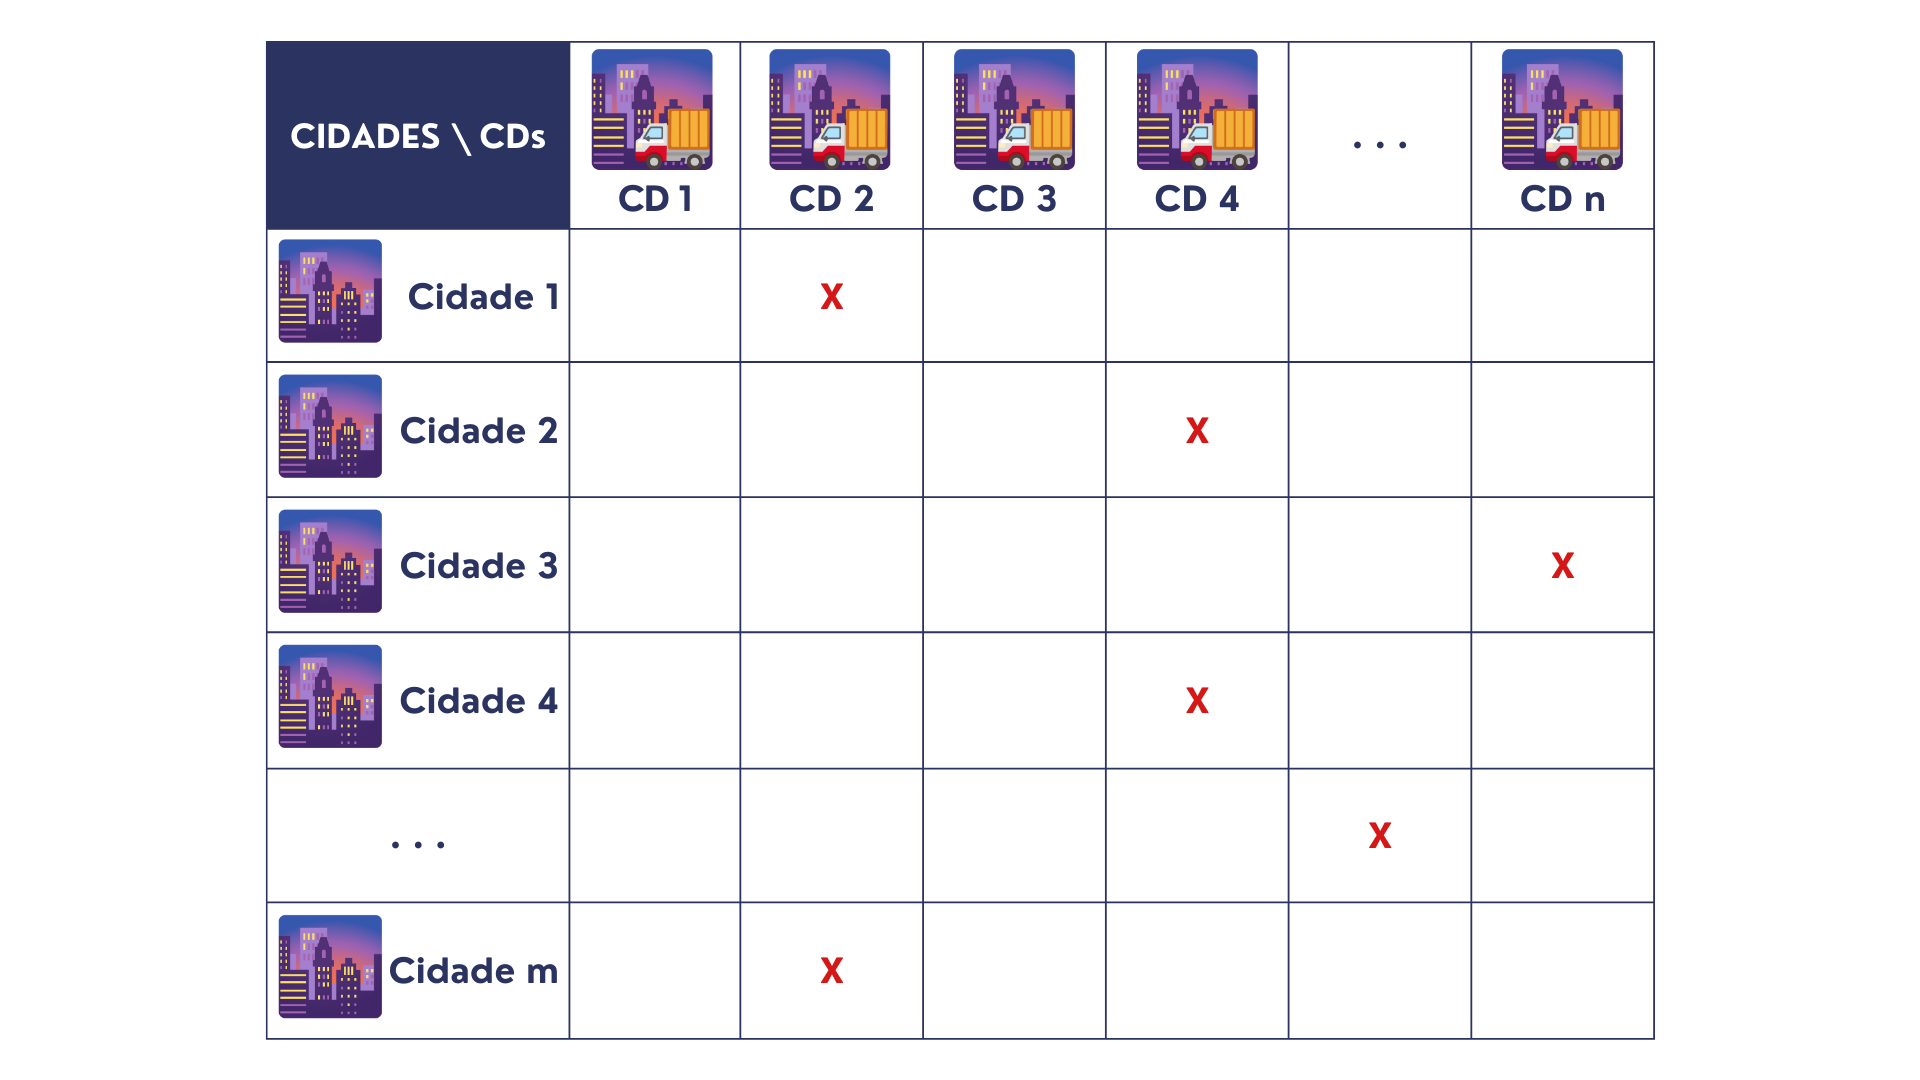
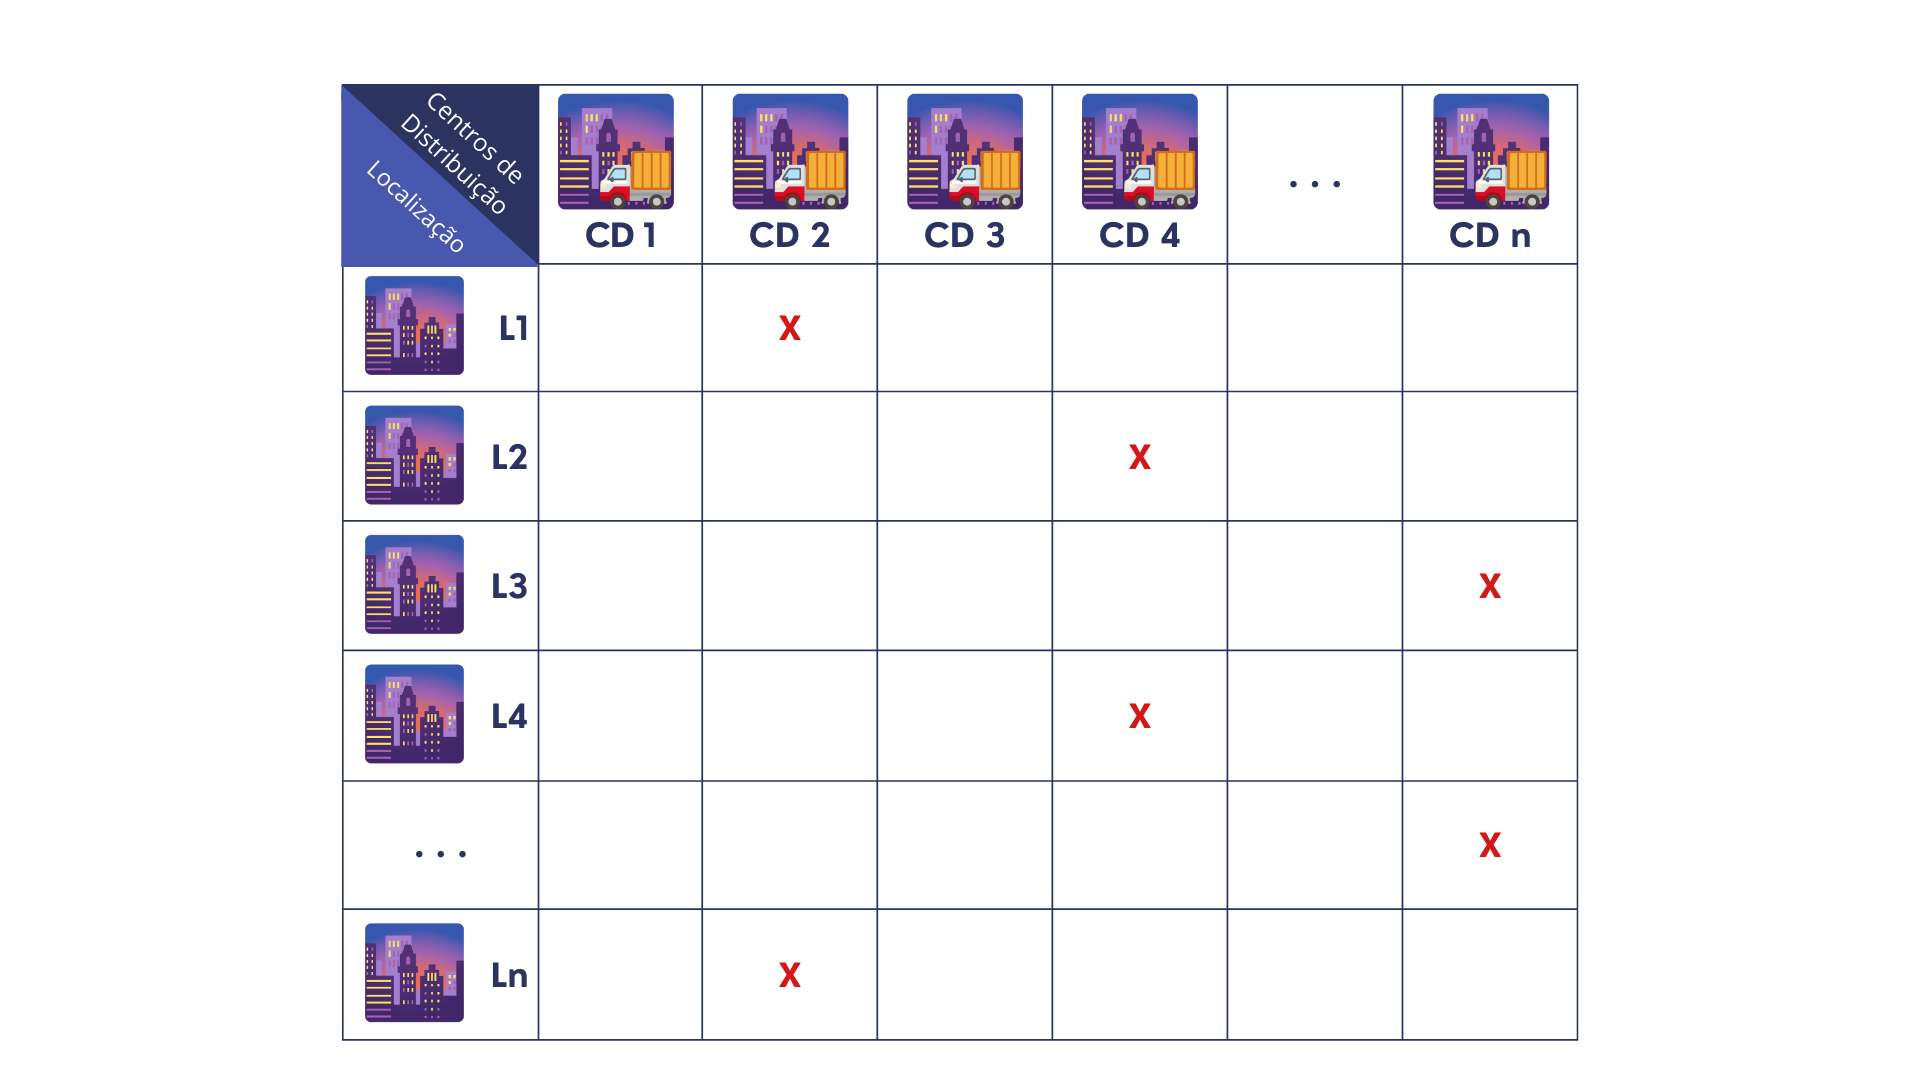
Update result*2 AND Fix README.md

diff --git a/pl_projeto_grupo_A.py b/pl_projeto_grupo_A.py
@@ -80,7 +80,7 @@ while (controle > 0 and controle < 10):
 
 
   # Função Objetivo
-  modelo.setObjective(sum(E[j] * D[i][j] * x[i,j] for i in C for j in range(m)), sense = gp.GRB.MINIMIZE)
+  modelo.setObjective(sum(2 * E[j] * D[i][j] * x[i,j] for i in C for j in range(m)), sense = gp.GRB.MINIMIZE)
 
   # Restrições
   C1 = modelo.addConstrs(
@@ -123,9 +123,9 @@ while (controle > 0 and controle < 10):
             if (x[i, j].x > 0.5):
               print("|\tCidade {}\t -> \t{:.3f} km \t -> {} Vezes ".format(j+1, D[i][j], E[j]), file=arquivo)
               Dtotal+=D[i][j]*E[j]
-          print("|\n| Distancia Total percorrida pela cidade {}\t -> {:.3f} km".format(i+1, Dtotal), file=arquivo)
+          print("|\n| Distancia Total percorrida pela cidade {}\t -> {:.3f} km".format(i+1, 2 * Dtotal), file=arquivo)
       print("| ----------------------------------------------------------------", file=arquivo)
-      print("| Distância Total de todos os CDs: {:.2f} km".format(sum(E[j] * D[i][j] * x[i, j].X for i in C for j in range(m))), file=arquivo)
+      print("| Distância Total de todos os CDs: {:.2f} km".format(sum(2 * E[j] * D[i][j] * x[i, j].X for i in C for j in range(m))), file=arquivo)
       print("| ________________________________________________________________\n", file=arquivo)
   
   arquivo.close()
@@ -143,7 +143,7 @@ while (controle > 0 and controle < 10):
           if (x[i, j].x > 0.5):
             print("|\tCidade {}\t -> \t{:.3f} km \t -> {} Vezes ".format(j+1, D[i][j], E[j]))
             Dtotal+=D[i][j]*E[j]
-        print("|\n| Distancia Total percorrida pela cidade {}\t -> {:.3f} km".format(i+1, Dtotal))
+        print("|\n| Distancia Total percorrida pela cidade {}\t -> {:.3f} km".format(i+1, 2 * Dtotal))
     print("| ----------------------------------------------------------------")
     print("| Valor ótimo: {:.2f} km".format(modelo.ObjVal))
     print("| ________________________________________________________________\n")

diff --git a/pl_projeto_grupo_B.py b/pl_projeto_grupo_B.py
@@ -14,6 +14,7 @@ pip install gurobipy    -> Rodar comando no terminal
 
 import gurobipy as gp
 import math as mt
+import matplotlib as plt
 
 dados = ["inst_20_3", "inst_20_4", "inst_30_4", "inst_40_8", "inst_40_9", "inst_50_7", "inst_50_10", "inst_60_11", "inst_60_12"]
 controle = 1
@@ -149,7 +150,7 @@ while (controle > 0 and controle < 10):
             if (x[i, j].x > 0.5):
               print("|\tCidade {}\t -> \t{:.3f} km \t -> {} Vezes ".format(j+1, D[i][j], E[j]))
               Dtotal+=D[i][j]*E[j]
-          print("|\n| Distancia Total percorrida pela cidade {}\t -> {:.3f} km".format(i+1, Dtotal))
+          print("|\n| Distancia Total percorrida pela cidade {}\t -> {:.3f} km".format(i+1, 2 * Dtotal))
       print("| ----------------------------------------------------------------")
-      print("| Distância Total de todos os CDs: {:.2f} km".format(sum(E[j] * D[i][j] * x[i, j].X for i in C for j in range(m))))
+      print("| Distância Total de todos os CDs: {:.2f} km".format(sum(2 * E[j] * D[i][j] * x[i, j].X for i in C for j in range(m))))
       print("| ________________________________________________________________\n")

diff --git a/README.md b/README.md
@@ -37,9 +37,9 @@ $\sqrt{(x_1 - x_2)^2 + (y_1 - y_2)^2}$
 ## Parâmetros:
 
 	C[i] 	-> Cidade i que pode ser centro de distribuição
-	E[j] 	-> Número de entregas da cidade j, j = 1,...,m
-	P[i] 	-> Coordenada da cidade i, i = 1,...,n
-	D[i][j] -> Distância da cidade i para o centro j, i = 1,...,n, j = 1,...,m
+	E[j] 	-> Número de entregas na cidade j, j = 1,...,m
+	P[j] 	-> Coordenada da cidade j, j = 1,...,m
+	D[i][j] -> Distância do centro j para a cidade i, j = 1,...,m,  i = 1,...,m
  	
 	D[i][j]  = √((x[i]-x[j])^2 + (y[i]-y[j])^2)
 
